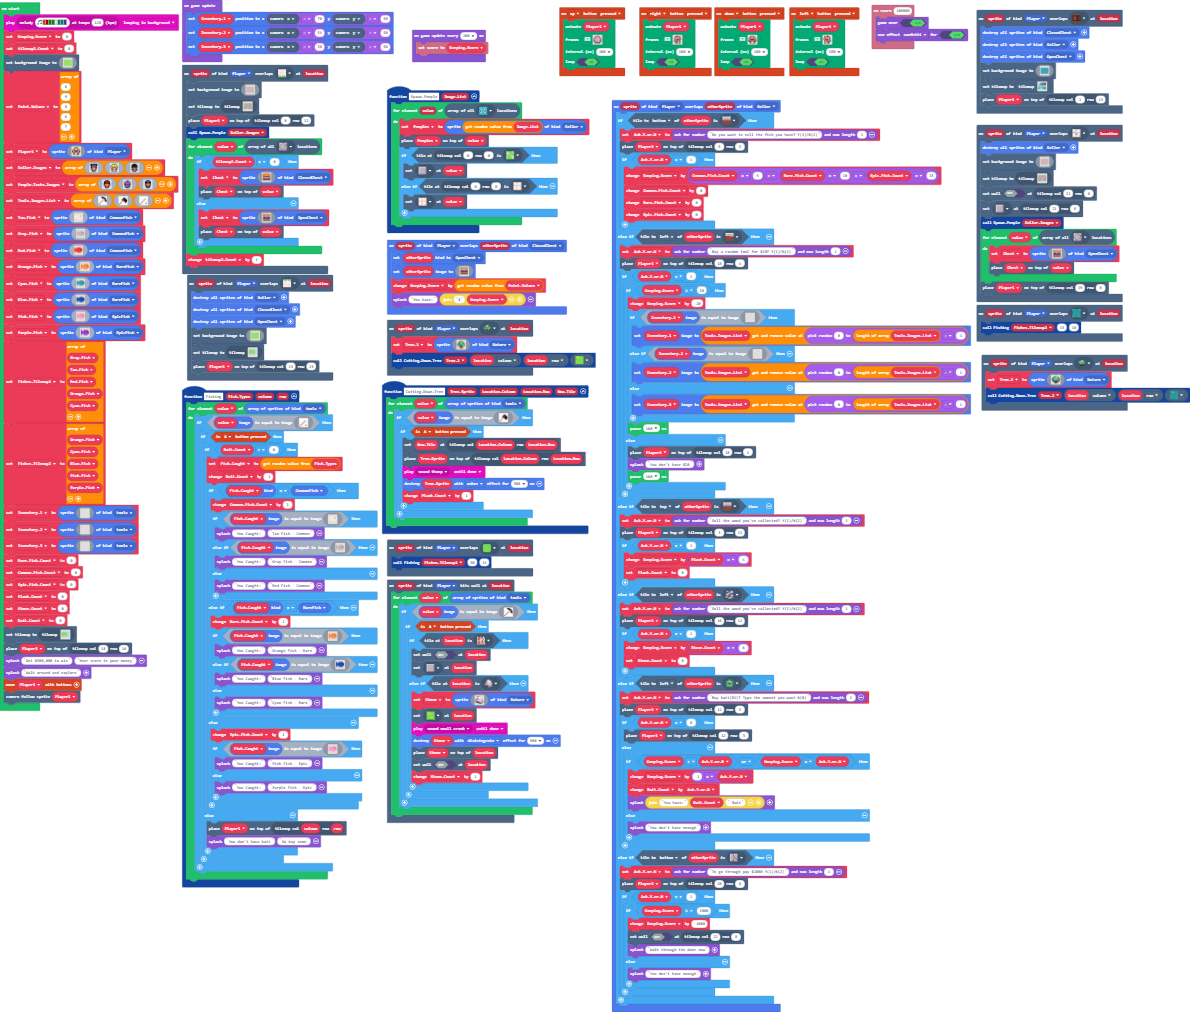
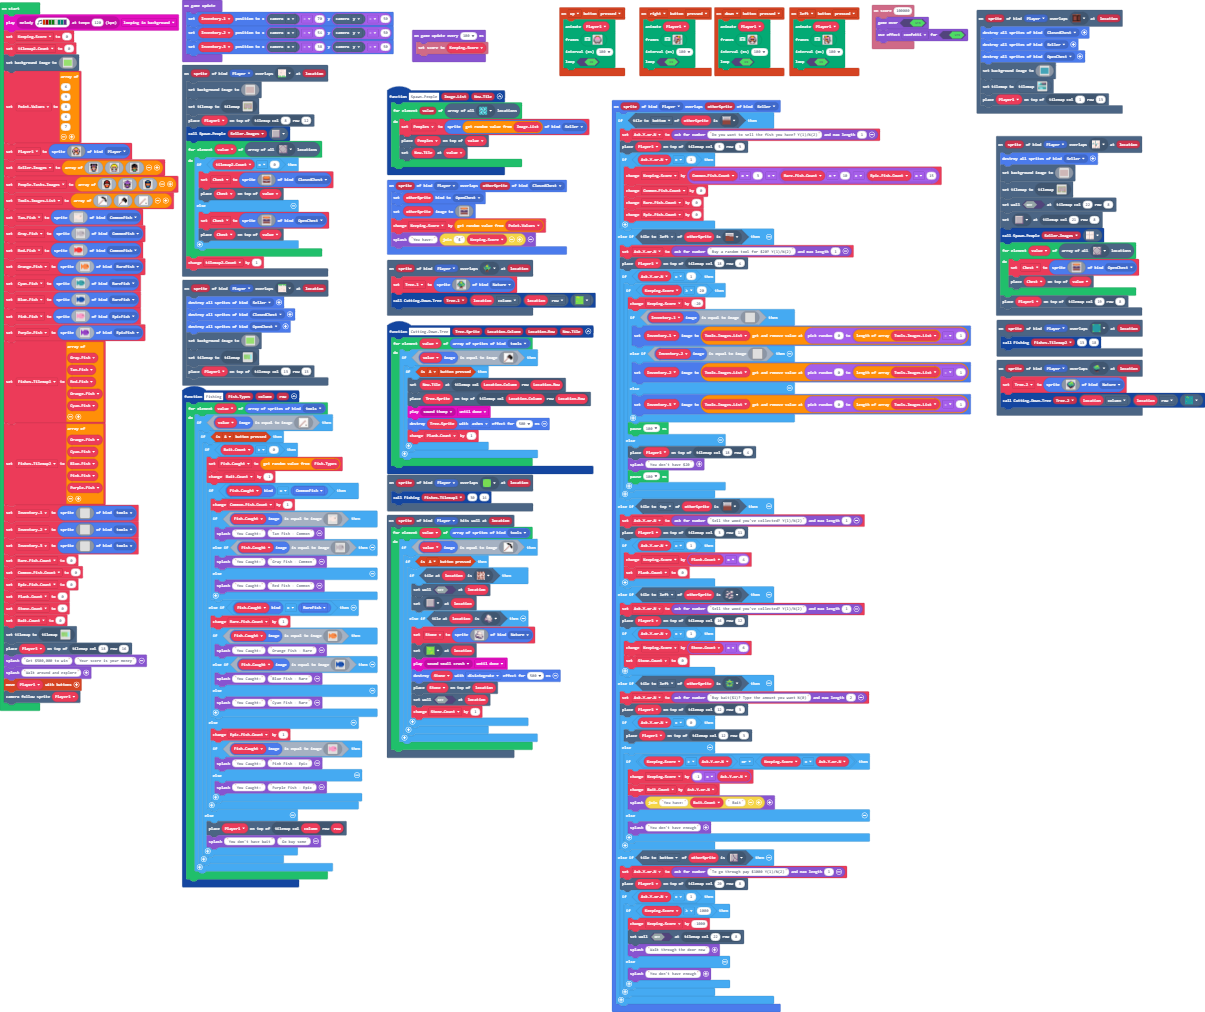
I removed the if statement in my "Spawn.People" function and added a parameter so that it would shorter and simpler.

diff --git a/main.ts b/main.ts
@@ -266,7 +266,7 @@ scene.onOverlapTile(SpriteKind.Player, sprites.dungeon.floorLightMoss, function 
     tiles.setCurrentTilemap(tilemap`level3`)
     tiles.setWallAt(tiles.getTileLocation(22, 8), false)
     tiles.setTileAt(tiles.getTileLocation(21, 8), sprites.dungeon.floorDark2)
-    SpawnPeople(SellerImages)
+    SpawnPeople(SellerImages, sprites.dungeon.floorLight0)
     for (let value of tiles.getTilesByType(sprites.dungeon.floorDarkDiamond)) {
         Chest = sprites.create(img`
             . b b b b b b b b b b b b b b . 
@@ -1054,7 +1054,7 @@ scene.onOverlapTile(SpriteKind.Player, sprites.castle.tilePath8, function (sprit
         `)
     tiles.setCurrentTilemap(tilemap`level3`)
     tiles.placeOnTile(Player1, tiles.getTileLocation(8, 12))
-    SpawnPeople(SellerImages)
+    SpawnPeople(SellerImages, sprites.dungeon.floorDark2)
     for (let value of tiles.getTilesByType(sprites.dungeon.floorDarkDiamond)) {
         if (tilemap2Count == 0) {
             Chest = sprites.create(img`
@@ -1123,15 +1123,11 @@ function CuttingDownTree (TreeSprite: Sprite, LocationColumm: number, LocationRo
         }
     }
 }
-function SpawnPeople (ImageList: Image[]) {
+function SpawnPeople (ImageList: Image[], NewTile: Image) {
     for (let value of tiles.getTilesByType(sprites.dungeon.collectibleInsignia)) {
         Peoples = sprites.create(ImageList._pickRandom(), SpriteKind.Seller)
         tiles.placeOnTile(Peoples, value)
-        if (tiles.tileAtLocationEquals(tiles.getTileLocation(0, 0), sprites.castle.tileGrass2)) {
-            tiles.setTileAt(value, sprites.dungeon.floorDark2)
-        } else if (tiles.tileAtLocationEquals(tiles.getTileLocation(0, 0), sprites.dungeon.floorLight0)) {
-            tiles.setTileAt(value, sprites.dungeon.floorLight0)
-        }
+        tiles.setTileAt(value, NewTile)
     }
 }
 sprites.onOverlap(SpriteKind.Player, SpriteKind.ClosedChest, function (sprite, otherSprite) {
